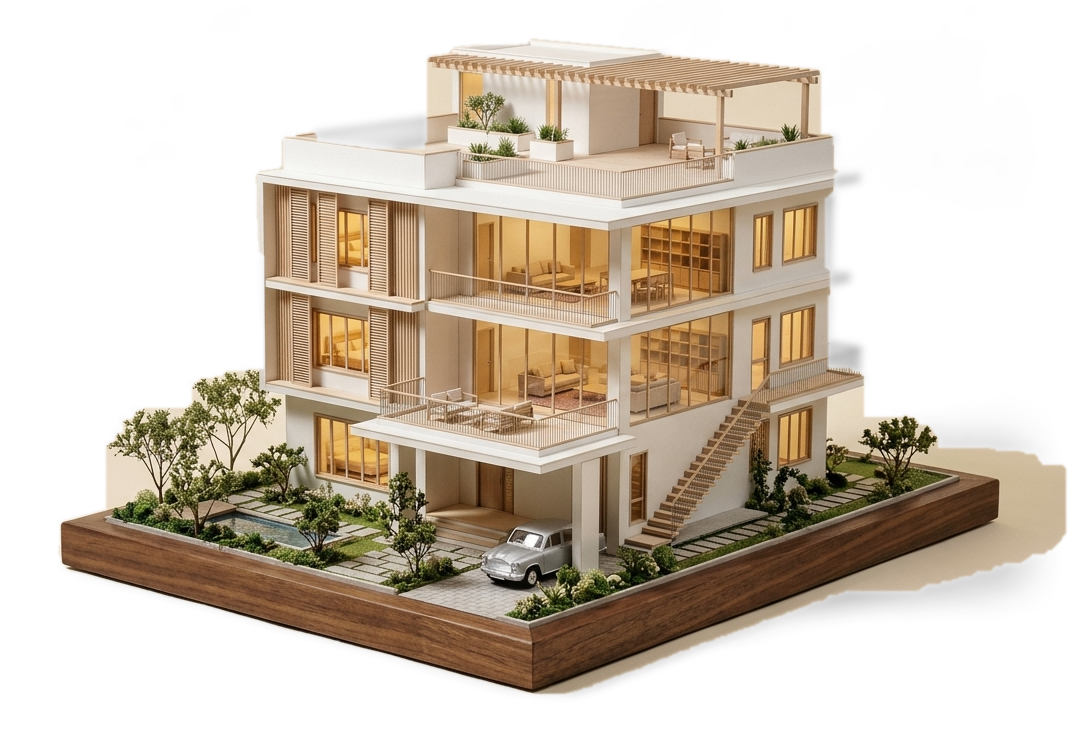
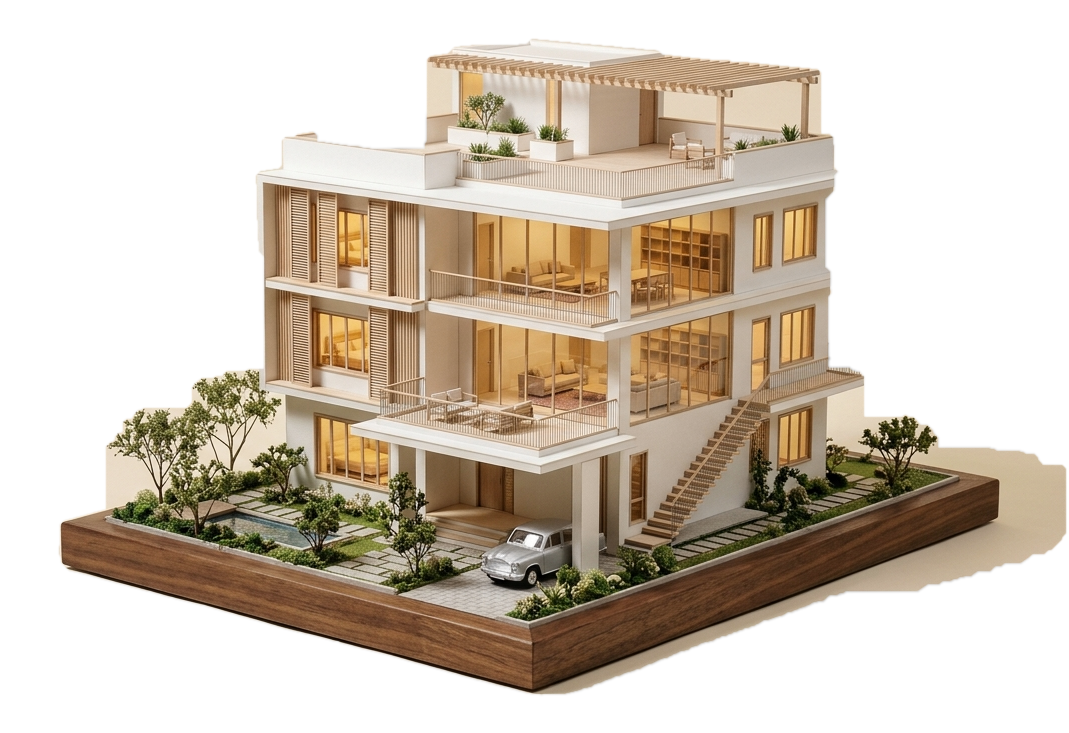
Reel engine: beat-synced timing, clear headline layering
Claude-Session: https://claude.ai/code/session_01KcYSHrnAmBoJxKFGe6gHQA

diff --git a/engine/reel/reel-td3d.html b/engine/reel/reel-td3d.html
@@ -42,7 +42,7 @@ html,body{width:1080px;height:1920px;overflow:hidden;background:#e9e3d6}
 const R='₹',cam=document.getElementById('cam');
 const cl=(x,a=0,b=1)=>Math.max(a,Math.min(b,x)), eo=x=>1-Math.pow(1-cl(x),3), eio=x=>{x=cl(x);return x<.5?4*x*x*x:1-Math.pow(-2*x+2,3)/2}, ei=x=>Math.pow(cl(x),3),
  eb=x=>{x=cl(x);const c=1.7;return 1+(c+1)*Math.pow(x-1,3)+c*Math.pow(x-1,2)};
-const T0=[0,4.1,8.1,12.0,15.9,19.9,23.4];
+const T0=[0,4,8,12,16,20,24];
 const mk=(p,cls,css,html)=>{const e=document.createElement('div');if(cls)e.className=cls;e.style.cssText=css||'';if(html!=null)e.innerHTML=html;p.appendChild(e);return e};
 const letters=(p,txt,css)=>{const e=mk(p,'big',css||'');e.L=[];txt.split(' ').forEach((w,wi)=>{if(wi)e.appendChild(document.createTextNode(' '));const ww=document.createElement('span');ww.style.cssText='display:inline-block;white-space:nowrap';[...w].forEach(ch=>{const o=document.createElement('span');o.className='lw';const i=document.createElement('span');i.className='l';i.textContent=ch;o.appendChild(i);ww.appendChild(o);e.L.push(i)});e.appendChild(ww)});return e};
 const rev=(e,t,at,st=.035,du=.55)=>e.L.forEach((l,i)=>{const p=eo((t-at-i*st)/du);l.style.transform=`translateY(${(1-p)*108}%) rotate(${(1-p)*8}deg)`});
@@ -58,19 +58,19 @@ const imgU=(e,t,d,o={})=>{const h=e.naturalHeight*e.width/e.naturalWidth;e.style
 const SC=[];
 // ---------- S1
 SC.push(sc=>{
- const back=letters(sc,'home loan','left:0;width:1080px;text-align:center;top:440px;font-size:214px');
- const lead=mk(sc,'it c','top:356px','a '+R+'50 lakh');
- const im=img(sc,'villa',980,560,900,40);
+ const back=letters(sc,'home loan','left:0;width:1080px;text-align:center;top:392px;font-size:214px');
+ const lead=mk(sc,'it c','top:318px','a '+R+'50 lakh');
+ const sh1=mk(sc,'','left:170px;top:1130px;width:760px;height:120px;border-radius:50%;background:rgba(40,30,18,.5);filter:blur(34px)');const im=img(sc,'villa',900,550,925,40);
  const c1=chip(sc,'the loan','20 yrs · 8.5%','left:60px;top:1040px');
  const l2=mk(sc,'it c','top:1250px','quietly costs you');
  const h=hl(sc,R+'1.04 crore','left:0;top:1326px;font-size:168px');h.style.left='50%';
  const ps=parts(sc,11);
- return (t,d)=>{rev(back,t,.25);back.style.transform='translateZ(-140px)';lead.style.transform=pop(lead,t,.15)+' translateZ(-60px)';
-  imgU(im,t,d);c1.style.transform=pop(c1,t,1.25)+` translateZ(190px) rotate(-4deg)`;
-  l2.style.transform=pop(l2,t,1.9)+' translateZ(90px)';h.style.transform=`translateX(-50%) translateZ(110px) rotate(-2deg) scale(${.9+.1*eb((t-2.2)/.5)})`;hlU(h,t,2.25);partsU(ps,t)}});
+ return (t,d)=>{rev(back,t,-.3);back.style.transform='translateZ(-140px)';lead.style.transform=pop(lead,t,-.3)+' translateZ(-60px)';
+  imgU(im,t+.45,d);sh1.style.opacity=cl((t+.2)/.4)*.8;sh1.style.transform='translateZ(20px)';c1.style.transform=pop(c1,t,.72)+` translateZ(190px) rotate(-4deg)`;
+  l2.style.transform=pop(l2,t,1.45)+' translateZ(90px)';h.style.transform=`translateX(-50%) translateZ(110px) rotate(-2deg) scale(${.9+.1*eb((t-1.85)/.4)})`;hlU(h,t,1.8);partsU(ps,t)}});
 // ---------- S2
 SC.push(sc=>{
- const back=letters(sc,'emi','left:0;width:1080px;text-align:center;top:392px;font-size:520px');
+ const back=letters(sc,'emi','left:0;width:1080px;text-align:center;top:372px;font-size:400px');
  const im=img(sc,'stacks',980,560,960,40);
  const c1=chip(sc,'interest',R+'35,417','left:70px;top:700px');
  const c2=chip(sc,'your loan',R+'7,974','left:716px;top:842px');c2.querySelector('.n').style.color='#e2452b';
@@ -79,10 +79,10 @@ SC.push(sc=>{
  const b1=mk(bar,'','height:100%;background:#15171d;display:flex;align-items:center;padding-left:22px;font:400 44px/1 AN;color:#f6f1e6;white-space:nowrap;overflow:hidden','82% INTEREST');
  const b2=mk(bar,'','height:100%;background:#e2452b;display:flex;align-items:center;justify-content:center;font:400 40px/1 AN;color:#f6f1e6;white-space:nowrap;overflow:hidden','18%');
  const ps=parts(sc,23);
- return (t,d)=>{rev(back,t,.2,.07);back.style.transform='translateZ(-160px)';imgU(im,t,d,{spin:-34});
-  c1.style.transform=pop(c1,t,1.1)+' translateZ(200px) rotate(-5deg)';c2.style.transform=pop(c2,t,1.5)+' translateZ(230px) rotate(4deg)';
-  l1.style.transform=pop(l1,t,1.9)+' translateZ(80px)';bar.style.opacity=cl((t-1.95)/.2);bar.style.transform='translateZ(100px)';
-  const p=eio((t-2.0)/.6);b1.style.width=(82*p)+'%';b2.style.width=(18*eio((t-2.4)/.4))+'%';partsU(ps,t)}});
+ return (t,d)=>{rev(back,t,-.1,.06);back.style.transform='translateZ(-160px)';imgU(im,t,d,{spin:-34});
+  c1.style.transform=pop(c1,t,.72)+' translateZ(200px) rotate(-5deg)';c2.style.transform=pop(c2,t,1.47)+' translateZ(230px) rotate(4deg)';
+  l1.style.transform=pop(l1,t,1.95)+' translateZ(80px)';bar.style.opacity=cl((t-1.95)/.2);bar.style.transform='translateZ(100px)';
+  const p=eio((t-2.0)/.7);b1.style.width=(82*p)+'%';b2.style.width=(18*eo((t-2.72)/.3))+'%';partsU(ps,t)}});
 // ---------- S3
 SC.push(sc=>{
  const lead=mk(sc,'it c','top:356px','ten years in,');
@@ -94,10 +94,10 @@ SC.push(sc=>{
  const h=hl(sc,'','left:50%;top:1250px;font-size:190px');
  const l2=mk(sc,'it c','top:1480px','of the '+R+'50 lakh you borrowed');
  const ps=parts(sc,37);
- return (t,d)=>{lead.style.transform=pop(lead,t,.15)+' translateZ(60px)';rev(back,t,.35,.03);back.style.transform='translateZ(80px)';imgU(im,t,d,{spin:0,sway:2.5,zoom:.1});
-  const q=eio((t-1.1)/1.5);cv.querySelector('#pp').setAttribute('stroke-dashoffset',1-q*.5);const k=Math.round(q*120),pt=pts[k];cv.querySelector('#pd').setAttribute('cx',pt[0]);cv.querySelector('#pd').setAttribute('cy',pt[1]);cv.style.opacity=cl((t-1)/.3)*.9;cv.style.transform='translateZ(-80px)';
-  h.tx.textContent=R+Math.round(50-15*eo((t-1.3)/1.3))+' lakh';h.style.transform=`translateX(-50%) translateZ(130px) rotate(-2deg) scale(${.9+.1*eb((t-1.2)/.5)})`;hlU(h,t,1.25);
-  l2.style.transform=pop(l2,t,2.5)+' translateZ(90px)';partsU(ps,t)}});
+ return (t,d)=>{lead.style.transform=pop(lead,t,-.1)+' translateZ(60px)';rev(back,t,0,.03);back.style.transform='translateZ(80px)';imgU(im,t,d,{spin:0,sway:2.5,zoom:.1});
+  const q=eio((t-.75)/1.25);cv.querySelector('#pp').setAttribute('stroke-dashoffset',1-q*.5);const k=Math.round(q*120),pt=pts[k];cv.querySelector('#pd').setAttribute('cx',pt[0]);cv.querySelector('#pd').setAttribute('cy',pt[1]);cv.style.opacity=cl((t-.7)/.3)*.9;cv.style.transform='translateZ(-80px)';
+  h.tx.textContent=R+Math.round(50-15*eio((t-.75)/1.25))+' lakh';h.style.transform=`translateX(-50%) translateZ(130px) rotate(-2deg) scale(${(.9+.1*eb((t-.7)/.4))*(1+.07*Math.max(0,1-Math.abs(t-2.02)/.16))})`;hlU(h,t,.6);
+  l2.style.transform=pop(l2,t,2.72)+' translateZ(90px)';partsU(ps,t)}});
 // ---------- S4
 SC.push(sc=>{
  const lead=mk(sc,'it c','top:356px','by year 20');
@@ -108,22 +108,22 @@ SC.push(sc=>{
  const b1=mk(bar,'','height:100%;background:#15171d;display:flex;align-items:center;padding-left:20px;font:400 38px/1 AN;color:#f6f1e6;white-space:nowrap;overflow:hidden','LOAN '+R+'50L');
  const b2=mk(bar,'','height:100%;background:#e2452b;display:flex;align-items:center;padding-left:20px;font:400 38px/1 AN;color:#f6f1e6;white-space:nowrap;overflow:hidden','INTEREST '+R+'54L');
  const ps=parts(sc,51);
- return (t,d)=>{lead.style.transform=pop(lead,t,.15)+' translateZ(60px)';rev(back,t,.35,.03);back.style.transform='translateZ(80px)';imgU(im,t,d,{spin:0,sway:2.5,zoom:.12});
-  const q=eo((t-1.25)/1.4);h.tx.textContent=q<.999?R+(0.5+0.54*q).toFixed(2)+' crore':R+'1.04 crore';h.style.transform=`translateX(-50%) translateZ(130px) rotate(-2deg) scale(${.9+.1*eb((t-1.2)/.5)})`;hlU(h,t,1.2);
-  bar.style.opacity=cl((t-1.95)/.2);bar.style.transform='translateZ(100px)';b1.style.width=(48*eio((t-2.0)/.5))+'%';b2.style.width=(52*eio((t-2.4)/.6))+'%';partsU(ps,t)}});
+ return (t,d)=>{lead.style.transform=pop(lead,t,-.1)+' translateZ(60px)';rev(back,t,0,.03);back.style.transform='translateZ(80px)';imgU(im,t,d,{spin:0,sway:2.5,zoom:.12});
+  const q=eio((t-.75)/1.25);h.tx.textContent=q<.999?R+(0.5+0.54*q).toFixed(2)+' crore':R+'1.04 crore';h.style.transform=`translateX(-50%) translateZ(130px) rotate(-2deg) scale(${(.9+.1*eb((t-.7)/.4))*(1+.07*Math.max(0,1-Math.abs(t-2.02)/.16))})`;hlU(h,t,.6);
+  bar.style.opacity=cl((t-2.6)/.15);bar.style.transform='translateZ(100px)';b1.style.width=(48*eo((t-2.72)/.35))+'%';b2.style.width=(52*eo((t-3.22)/.3))+'%';partsU(ps,t)}});
 // ---------- S5
 SC.push(sc=>{
- const back=letters(sc,'+1 emi','left:0;width:1080px;text-align:center;top:372px;font-size:300px');
- const lead=mk(sc,'it c','top:346px','pay one extra, every year');
- const im=img(sc,'villa',1130,540,850,40);
+ const back=letters(sc,'+1 emi','left:0;width:1080px;text-align:center;top:372px;font-size:250px');
+ const lead=mk(sc,'it c','top:300px','pay one extra, every year');
+ const sh1=mk(sc,'','left:150px;top:1120px;width:780px;height:120px;border-radius:50%;background:rgba(40,30,18,.5);filter:blur(34px)');const im=img(sc,'villa',920,545,912,40);
  const l2=mk(sc,'it c','top:1262px','and the loan ends');
  const h=hl(sc,'3 years early','left:50%;top:1338px;font-size:150px');
  const tl=mk(sc,'','left:120px;top:1560px;width:840px;height:40px');
  tl.innerHTML=`<div style="position:absolute;left:0;top:18px;width:840px;height:4px;background:rgba(21,23,29,.2)"></div><div id="tf" style="position:absolute;left:0;top:18px;height:4px;background:#15171d"></div><div id="tm" style="position:absolute;top:4px;width:32px;height:32px;border-radius:50%;background:#e2452b;margin-left:-16px"></div><div class="mono" style="position:absolute;left:0;top:-26px">start</div><div class="mono" style="position:absolute;right:0;top:-26px">year 20</div>`;
  const ps=parts(sc,77);
- return (t,d)=>{rev(back,t,.25,.05);back.style.transform='translateZ(-150px)';lead.style.transform=pop(lead,t,.15)+' translateZ(-60px)';imgU(im,t,d,{spin:30,zoom:.05});
-  l2.style.transform=pop(l2,t,1.5)+' translateZ(90px)';h.style.transform=`translateX(-50%) translateZ(120px) rotate(-2deg) scale(${.9+.1*eb((t-1.8)/.5)})`;hlU(h,t,1.85);
-  tl.style.opacity=cl((t-2.3)/.25);tl.style.transform='translateZ(100px)';const p=eio((t-2.4)/.5),bk=eio((t-3)/.6),x=840*(p-(1-16.75/20)*bk);tl.querySelector('#tf').style.width=x+'px';tl.querySelector('#tm').style.left=x+'px';partsU(ps,t)}});
+ return (t,d)=>{rev(back,t,-.1,.05);back.style.transform='translateZ(-150px)';lead.style.transform=pop(lead,t,.7)+' translateZ(-60px)';imgU(im,t,d,{spin:30,zoom:.05});sh1.style.opacity=cl((t-.2)/.4)*.8;sh1.style.transform='translateZ(20px)';
+  l2.style.transform=pop(l2,t,1.45)+' translateZ(90px)';h.style.transform=`translateX(-50%) translateZ(120px) rotate(-2deg) scale(${.9+.1*eb((t-1.85)/.4)})`;hlU(h,t,1.8);
+  tl.style.opacity=cl((t-2.6)/.15);tl.style.transform='translateZ(100px)';const p=eo((t-2.72)/.4),bk=eio((t-3.22)/.3),x=840*(p-(1-16.75/20)*bk);tl.querySelector('#tf').style.width=x+'px';tl.querySelector('#tm').style.left=x+'px';partsU(ps,t)}});
 // ---------- S6
 SC.push(sc=>{
  const l1=mk(sc,'it c','top:600px','property and money,<br>explained with data');l1.style.whiteSpace='normal';
@@ -131,8 +131,8 @@ SC.push(sc=>{
  const h=hl(sc,'follow for more','left:50%;top:1010px;font-size:132px');
  const l2=mk(sc,'it c','top:1210px','send this to someone paying an EMI');
  const ps=parts(sc,91);
- return (t,d)=>{l1.style.transform=pop(l1,t,.2)+' translateZ(40px)';wm.style.opacity=cl((t-.3)/.3);wm.style.transform=`translateZ(120px) rotateX(${(1-eo((t-.3)/.8))*70}deg) scale(${.8+.2*eb((t-.3)/.7)})`;
-  h.style.transform=`translateX(-50%) translateZ(150px) rotate(-2deg) scale(${.9+.1*eb((t-1)/.5)})`;hlU(h,t,1.05);l2.style.transform=pop(l2,t,1.7)+' translateZ(80px)';partsU(ps,t)}});
+ return (t,d)=>{l1.style.transform=pop(l1,t,0)+' translateZ(40px)';wm.style.opacity=cl((t-.7)/.2);wm.style.transform=`translateZ(120px) rotateX(${(1-eo((t-.7)/.6))*70}deg) scale(${.8+.2*eb((t-.7)/.6)})`;
+  h.style.transform=`translateX(-50%) translateZ(150px) rotate(-2deg) scale(${.9+.1*eb((t-1.85)/.4)})`;hlU(h,t,1.8);l2.style.transform=pop(l2,t,2.72)+' translateZ(80px)';partsU(ps,t)}});
 const S=SC.map((b,i)=>{const sc=mk(cam,'scene','');const u=b(sc);return {sc,u,t0:T0[i],t1:T0[i+1]}});
 window.ready=Promise.all([document.fonts.ready,...[...document.images].map(i=>i.decode().catch(()=>{}))]);
 const TR=.42;
@@ -146,7 +146,7 @@ window.setT=T=>{
   const ry=(-7+14*t/d)*dir + pin*30 - pout*30, rx=4-3*t/d, tx=pin*1180-pout*1180, sc=(.86+.03*t/d)*(1-.1*pin-.1*pout), bl=(pin+pout)*8;
   s.sc.style.transform=`translate3d(${tx}px,0,${-pin*300-pout*300}px) rotateY(${ry}deg) rotateX(${rx}deg) scale(${sc})`;
   s.sc.style.filter=bl>.2?`blur(${bl.toFixed(1)}px)`:'none';s.sc.style.opacity=1;
-  s.u(first?t+.3:t,d);
+  s.u(t,d);
  });
 };
 </script></body></html>
